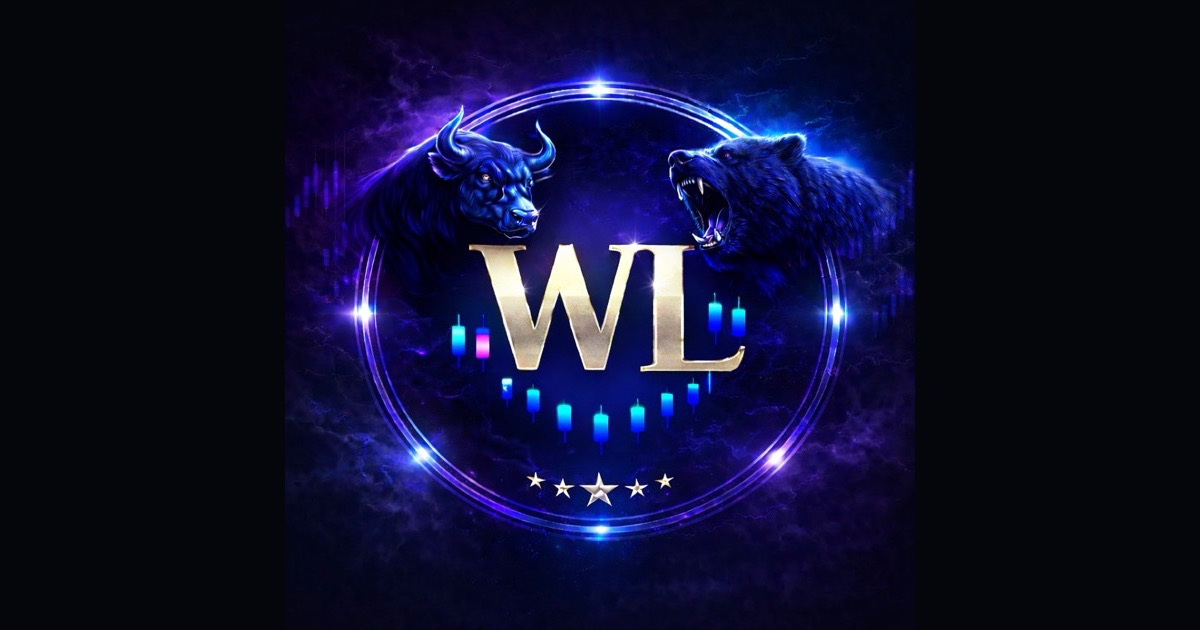
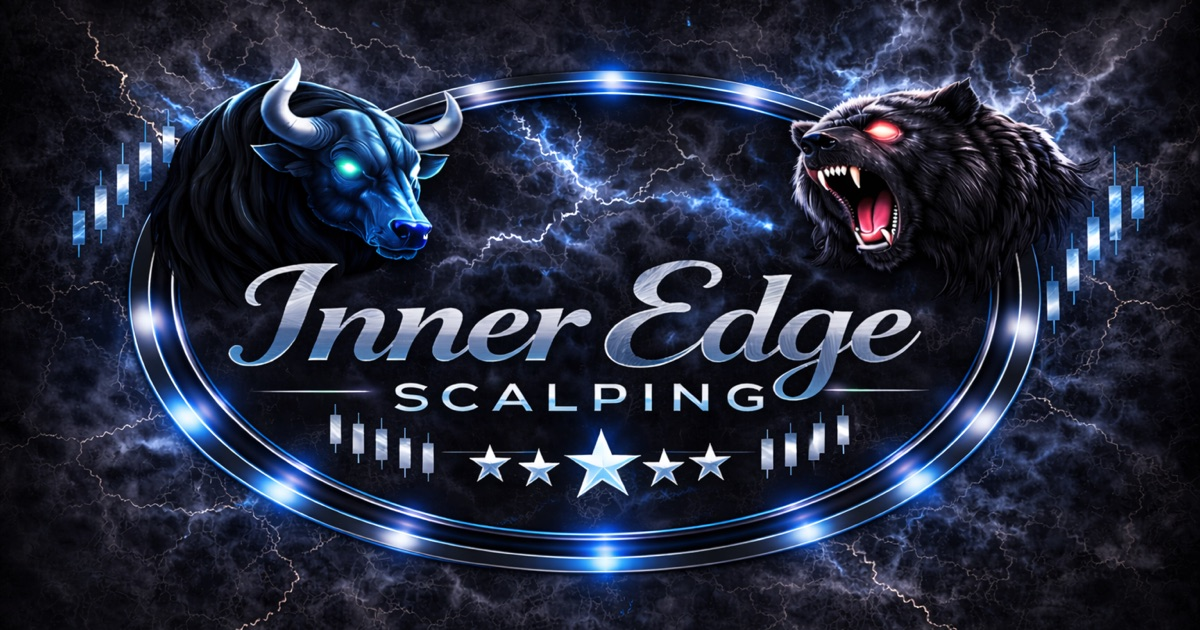
Use the Inner Edge wordmark for the link preview card
Replaces the WL badge card with the oval wordmark logo, which carries
the brand name and fills the frame.

Cropped to 1200x630 rather than padded. The artwork's textured
background runs to the edges, so letterboxing it onto a flat void
canvas left a visible seam and dark bars either side. The oval sits
mid-frame, so trimming top and bottom loses nothing.

Adds ?v=2 to the og:image URL. Scrapers cache by URL, so swapping the
file alone would leave the old picture in every future unfurl.

diff --git a/index.html b/index.html
@@ -15,14 +15,14 @@
   <meta property="og:url" content="https://inneredgescalping.com/" />
   <meta property="og:title" content="Inner Edge Scalping | Trade With Precision. Win With Edge." />
   <meta property="og:description" content="A proven profitable FX strategy, a customisable TradingView indicator, live weekly training, daily trade analysis and a community of traders. All in one place for $77 per month." />
-  <meta property="og:image" content="https://inneredgescalping.com/assets/og-card.jpg" />
+  <meta property="og:image" content="https://inneredgescalping.com/assets/og-card.jpg?v=2" />
   <meta property="og:image:width" content="1200" />
   <meta property="og:image:height" content="630" />
   <meta property="og:image:alt" content="Inner Edge Scalping bull and bear badge" />
   <meta name="twitter:card" content="summary_large_image" />
   <meta name="twitter:title" content="Inner Edge Scalping | Trade With Precision. Win With Edge." />
   <meta name="twitter:description" content="A proven profitable FX strategy, a customisable TradingView indicator, live weekly training, daily trade analysis and a community of traders. All in one place for $77 per month." />
-  <meta name="twitter:image" content="https://inneredgescalping.com/assets/og-card.jpg" />
+  <meta name="twitter:image" content="https://inneredgescalping.com/assets/og-card.jpg?v=2" />
   <!-- WL badge rather than the Inner Edge oval: the oval's wordmark is
        unreadable at 16px, the circular WL mark still reads -->
   <link rel="icon" type="image/png" sizes="32x32" href="assets/favicon-32.png" />

diff --git a/docs/REFERENCE.md b/docs/REFERENCE.md
@@ -26,11 +26,13 @@ The card shown when the URL is dropped in Discord, iMessage or Slack. Before thi
 
 - **`<title>`, `og:title` and `twitter:title` are all the same string** and should stay that way: **"Inner Edge Scalping | Trade With Precision. Win With Edge."** Miguel's wording, settled 2026-08-17. It carries the brand name, which search results and a browser tab need, and their real tagline, which is what the shared card should lead with. An earlier version split them, tagline in the card and brand in the tab; that was replaced because one string does both jobs.
 - ⚠ **`og:image` must be an absolute URL.** A relative path silently fails in most scrapers. It points at `https://inneredgescalping.com/assets/og-card.jpg`, so it only resolves on the real domain.
-- **`assets/og-card.jpg` is generated, 1200x630.** The source badge is square (1024x1024) and a square in an OG slot gets centre-cropped, which cuts the bull and bear heads off. It is fitted whole onto a `--void` (#04060c) canvas instead. Regenerate from a square source with:
+- **`assets/og-card.jpg` is generated, 1200x630**, from `~/Documents/Images/blacklogo.png` (the Inner Edge oval wordmark, 1535x962). Miguel's choice 2026-08-17, replacing a first attempt built from the square WL badge. **Crop, do not pad.** The artwork's textured background runs to the edges, so letterboxing it onto a flat `--void` canvas leaves a visible seam; cropping to the OG ratio fills the frame. The oval sits mid-frame so trimming top and bottom costs nothing:
   ```
-  sips --resampleHeight 630 <square>.jpg -o /tmp/t.jpg
-  sips -p 630 1200 --padColor 04060C /tmp/t.jpg -o assets/og-card.jpg
+  sips -c 806 1535 blacklogo.png -o /tmp/c.png      # centre-crop to 1.905:1
+  sips -z 630 1200 /tmp/c.png -o /tmp/og.png
+  sips -s format jpeg -s formatOptions 82 /tmp/og.png -o assets/og-card.jpg
   ```
+- ⚠ **Bump `?v=` on the `og:image` URL whenever the image changes.** Scrapers cache by URL, so replacing the file alone leaves the old picture in every future unfurl. Currently `?v=2`.
 - ⚠ **Platforms cache unfurls hard.** Editing these tags does not update a preview that already exists in a Discord or iMessage thread. Some only re-scrape on a new URL. Test in a fresh channel, and do not assume a stale card means the tags are wrong.
 
 ## 3. Architecture
